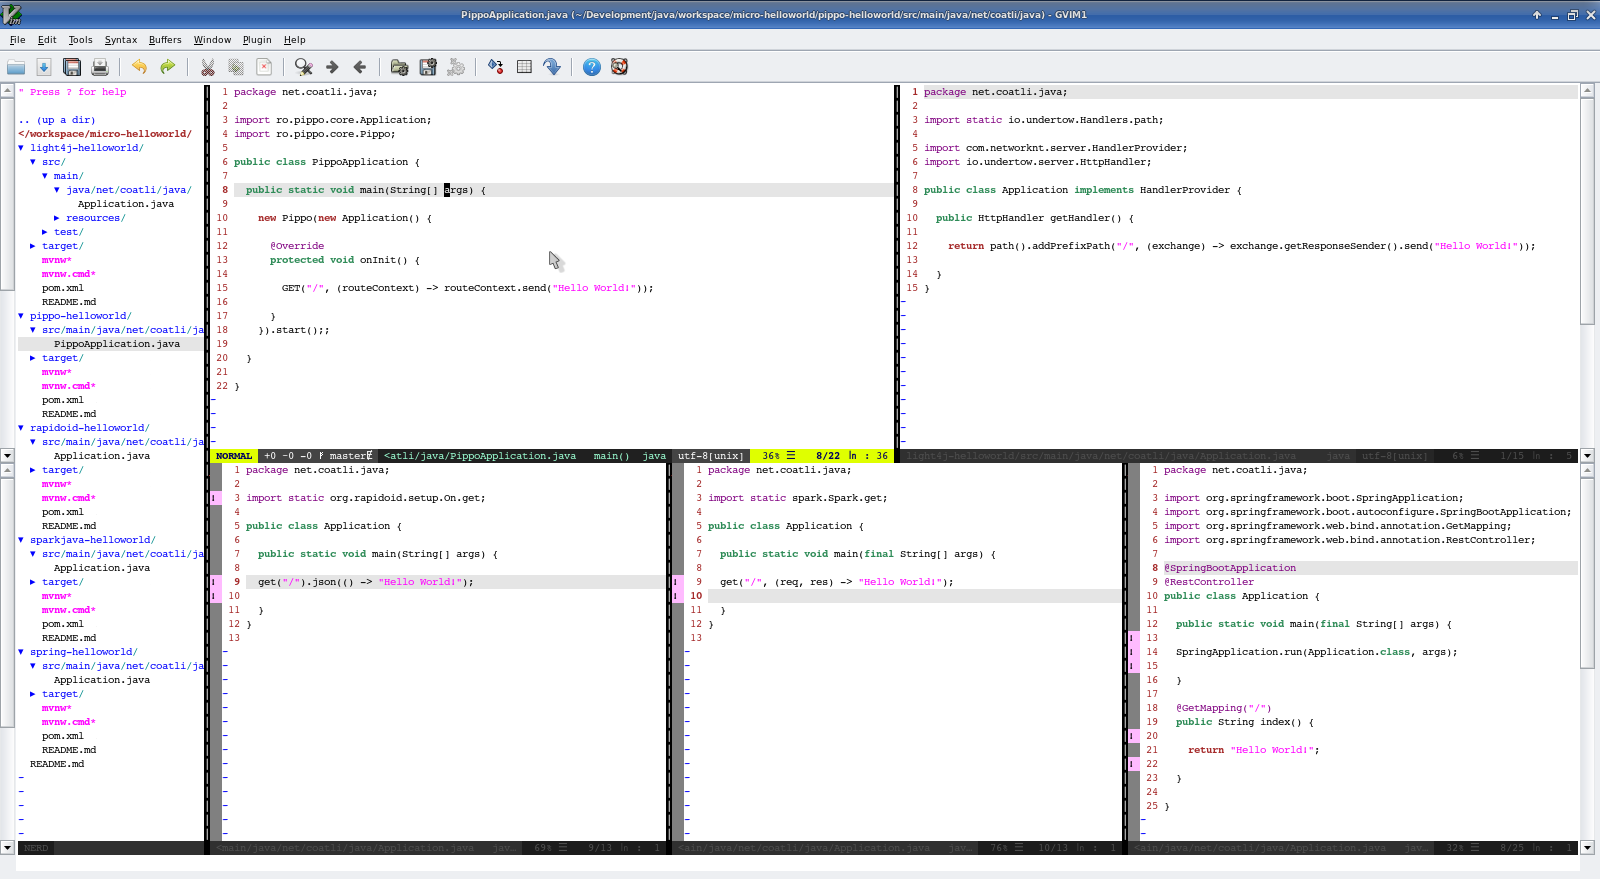
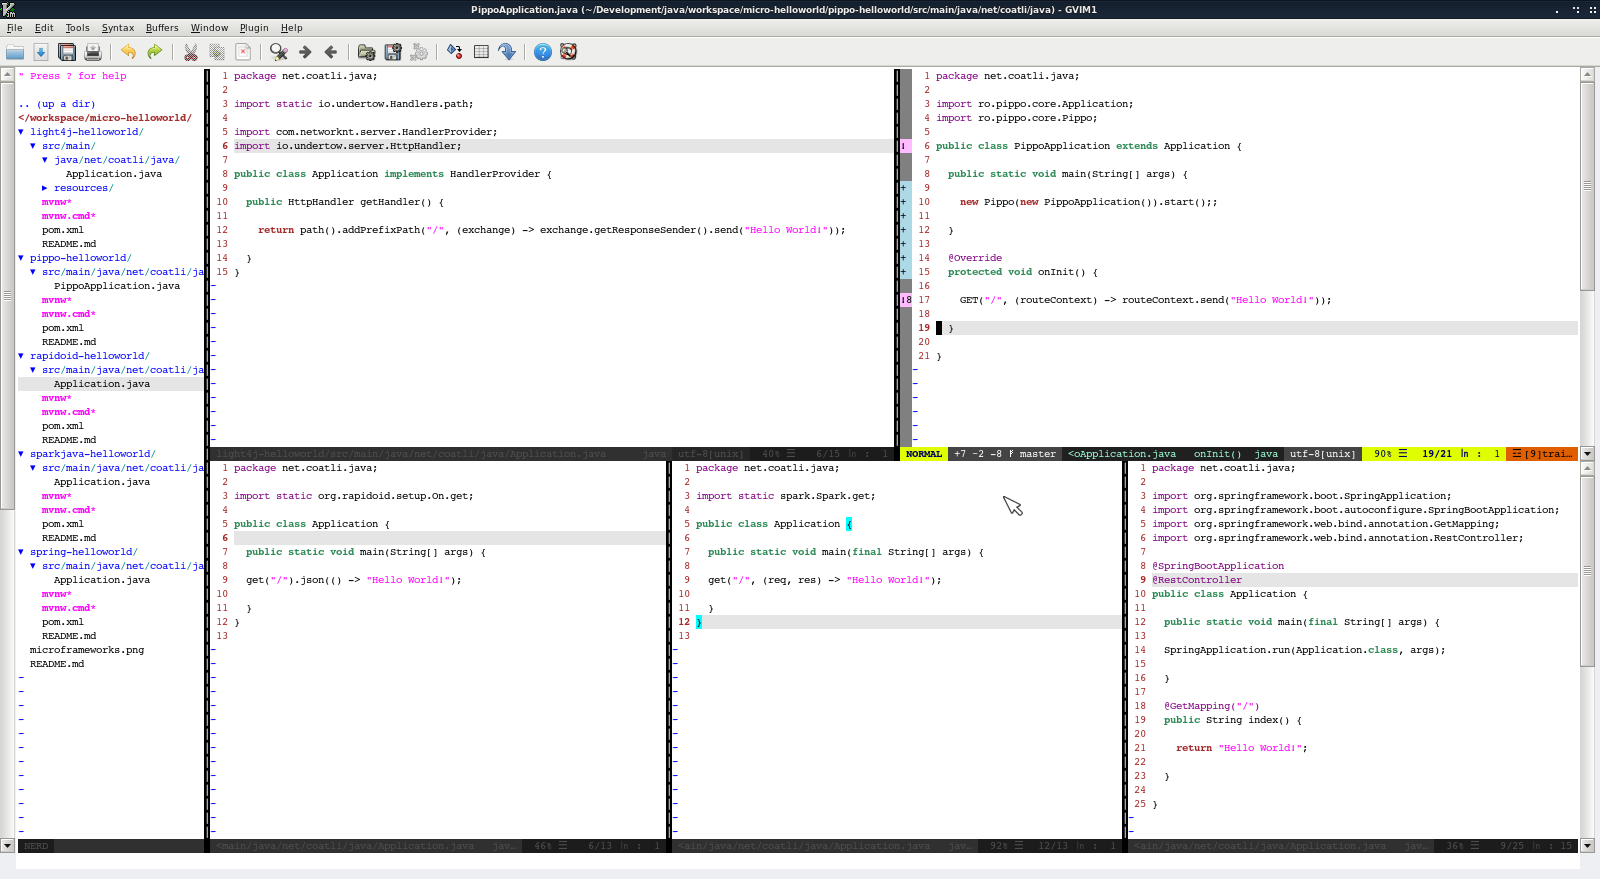
refactor(pippo): change app bootstrap

Changed region(s): [[0.0, 0.0, 1.0, 0.9829], [0.7812, 0.2765, 0.9375, 0.3072], [0.7188, 0.2765, 0.75, 0.3072]]

diff --git a/pippo-helloworld/src/main/java/net/coatli/java/PippoApplication.java b/pippo-helloworld/src/main/java/net/coatli/java/PippoApplication.java
@@ -3,19 +3,18 @@ package net.coatli.java;
 import ro.pippo.core.Application;
 import ro.pippo.core.Pippo;
 
-public class PippoApplication {
+public class PippoApplication extends Application {
 
   public static void main(String[] args) {
+    
+    new Pippo(new PippoApplication()).start();;
+  
+  }
+  
+  @Override
+  protected void onInit() {
 
-    new Pippo(new Application() {
-
-      @Override
-      protected void onInit() {
-
-        GET("/", (routeContext) -> routeContext.send("Hello World!"));
-
-      }
-    }).start();;
+    GET("/", (routeContext) -> routeContext.send("Hello World!"));
 
   }
 
